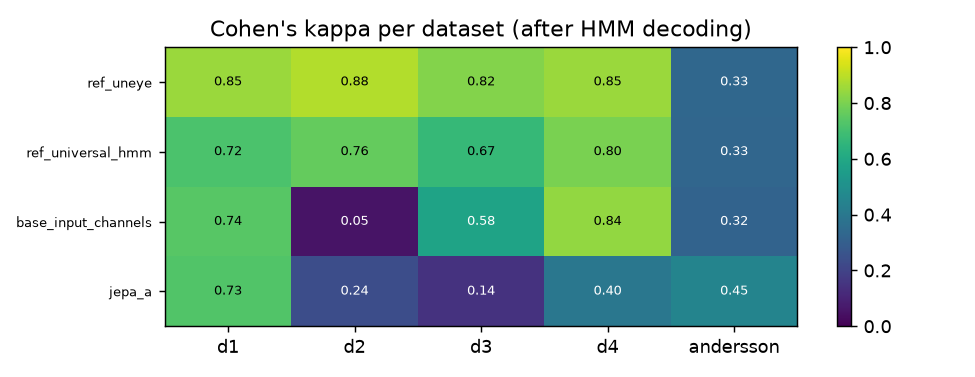
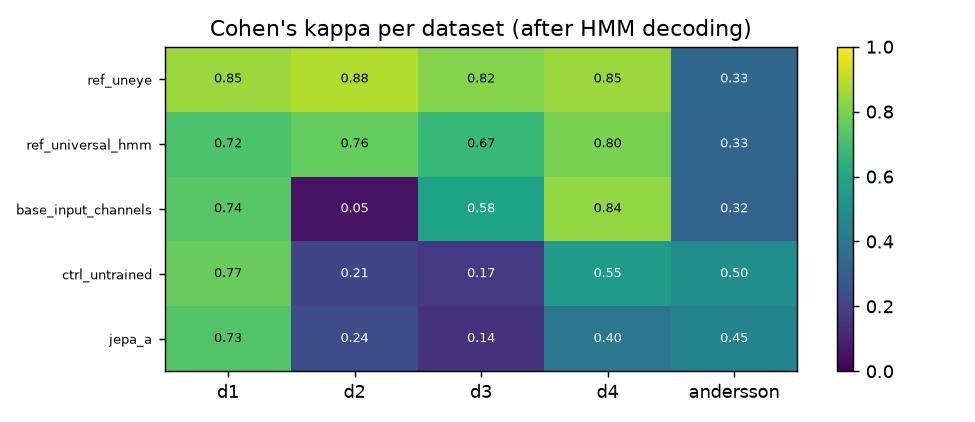
Overnight comparison: ctrl_untrained (done)

diff --git a/docs/OVERNIGHT_REPORT.md b/docs/OVERNIGHT_REPORT.md
@@ -1,12 +1,13 @@
 # Overnight comparison of candidate architectures and training heuristics
 
-Generated 2026-10-09 22:51 by `foundation/night_report.py` from `foundation/runs/night/*.json` (MacBook Air M1, one GPU job at a time). The numbers are those of the files; nothing is typed by hand in the tables.
+Generated 2026-10-09 22:53 by `foundation/night_report.py` from `foundation/runs/night/*.json` (MacBook Air M1, one GPU job at a time). The numbers are those of the files; nothing is typed by hand in the tables.
 
 ## Summary
 
 - Best mean event F1 over the 5 benchmarks: **jepa_a** (0.61 F1, 0.39 kappa); best mean kappa: **jepa_a** (0.61 / 0.39).
 - Reference U'n'Eye (supervised): 0.85 F1 / 0.75 kappa on the same subsets (Andersson with its general weights is 0.55 / 0.33; with its own weights 0.89 / 0.81). The label-free universal HMM: 0.88 / 0.66.
-- Steps of the night finished: 1; failed or timed out: 0.
+- Control: the random-initialised transformer encoder gives 0.48 / 0.44: a trained encoder only counts if it beats this.
+- Steps of the night finished: 2; failed or timed out: 0.
 
 ## Protocol (the same for every row)
 
@@ -50,6 +51,7 @@ Already tried before tonight (not repeated):
 | `ref_universal_hmm` | reference | none (fitted on archive/ only) | **0.88 / 0.66** | n/a | 0.91 / 0.72 | 0.91 / 0.76 | 0.85 / 0.67 | 0.94 / 0.80 | 0.79 / 0.33 | 0.5 |
 | `ref_uneye` | reference | all labels of d1+d2+d3 train splits (in-domain for d1-d3, unseen for d | **0.85 / 0.75** | n/a | 0.90 / 0.85 | 0.94 / 0.88 | 0.93 / 0.82 | 0.92 / 0.85 | 0.55 / 0.33 | 0.2 |
 | `base_input_channels` | reference | labels of the other 4 datasets (linear probe) | **0.75 / 0.51** | 0.17 / 0.25 | 0.90 / 0.74 | 0.81 / 0.05 | 0.57 / 0.58 | 0.86 / 0.84 | 0.64 / 0.32 | 0.2 |
+| `ctrl_untrained` | control | labels of the other 4 datasets (linear probe only); the encoder itself | **0.48 / 0.44** | 0.29 / 0.42 | 0.79 / 0.77 | 0.44 / 0.21 | 0.19 / 0.17 | 0.37 / 0.55 | 0.61 / 0.50 | 1.7 |
 | `jepa_a` | self-supervised | labels of the other 4 datasets (linear probe only); the encoder itself | **0.61 / 0.39** | 0.42 / 0.49 | 0.76 / 0.73 | 0.57 / 0.24 | 0.46 / 0.14 | 0.53 / 0.40 | 0.76 / 0.45 | 1.1 |
 
 The 'HMM' column is the headline (event F1 / kappa after decoding). For `ref_*` rows a single prediction is scored (no probe, no extra decoding).
@@ -72,6 +74,7 @@ The 'HMM' column is the headline (event F1 / kappa after decoding). For `ref_*` 
 | step | state | minutes |
 |---|---|---|
 | eval_jepa_a | done | 1.2 |
+| ctrl_untrained | done | 1.9 |
 
 ## Limits
 
